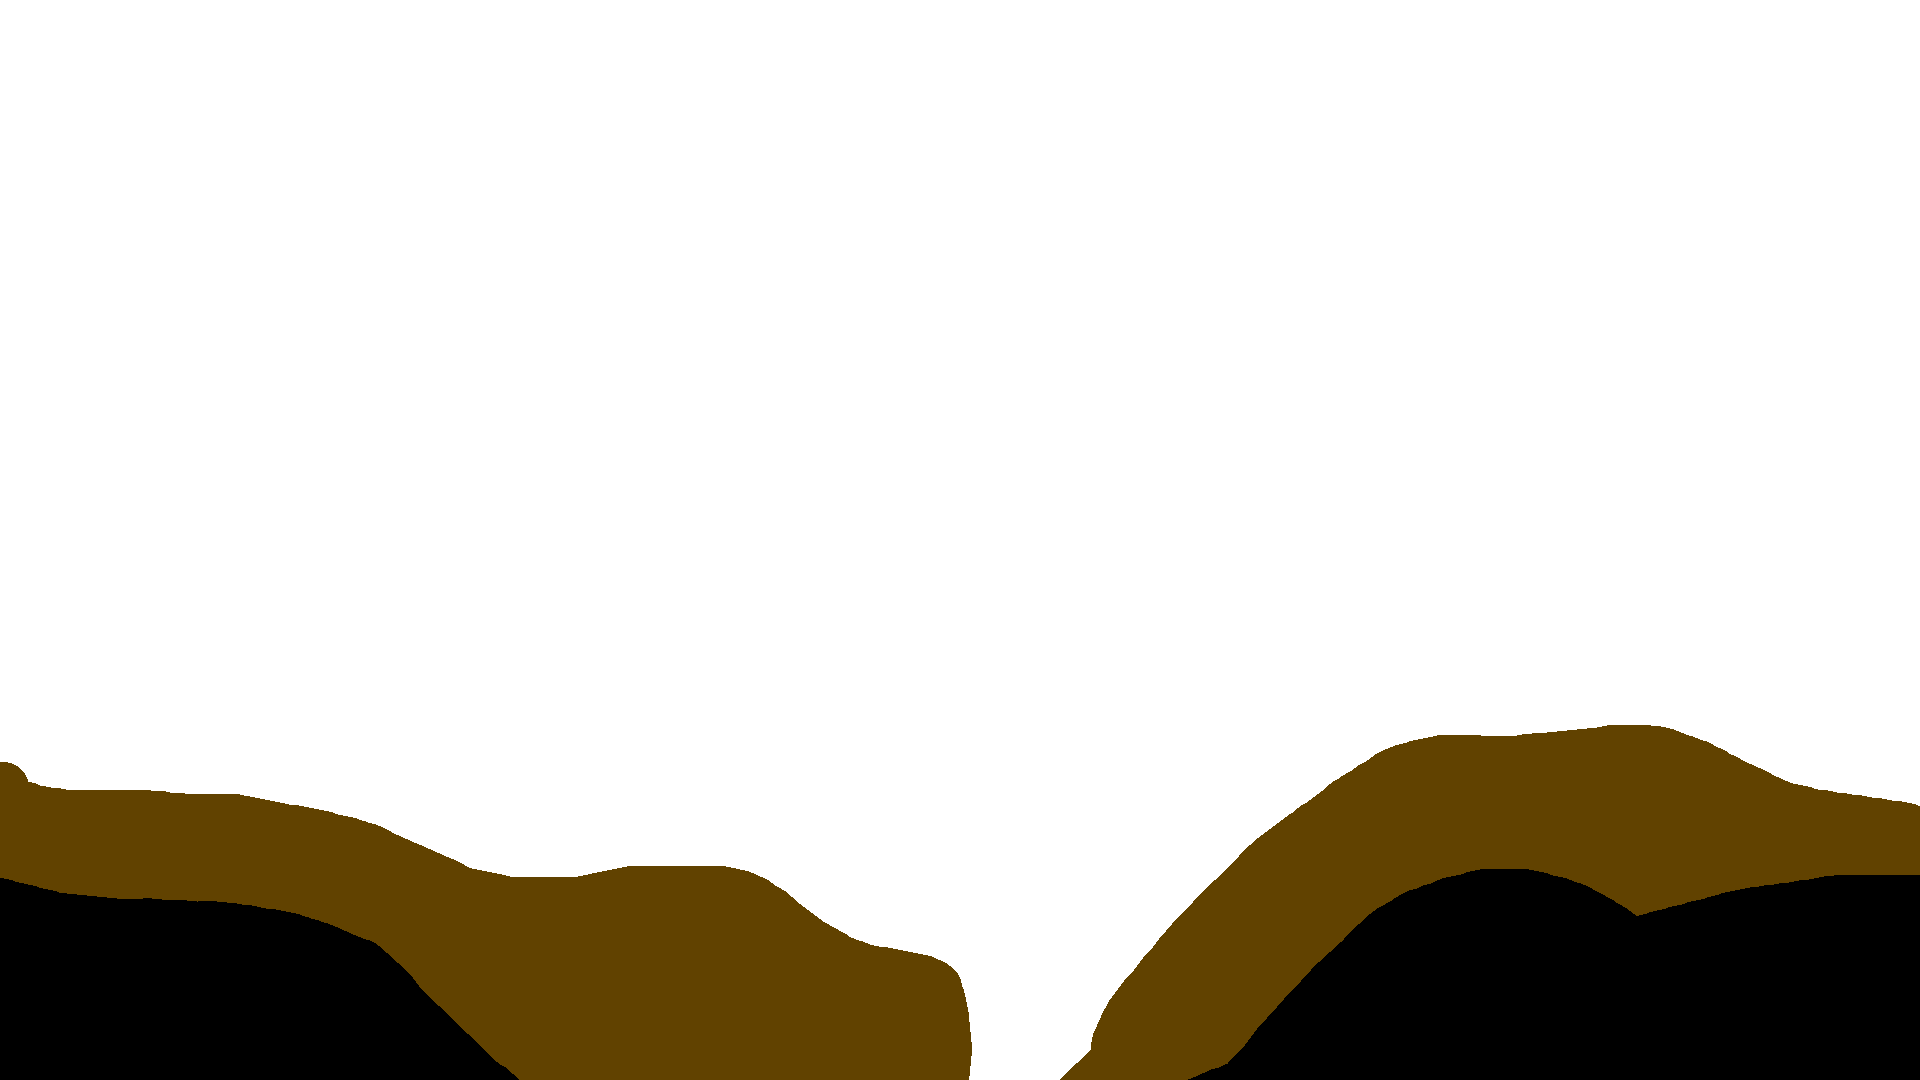
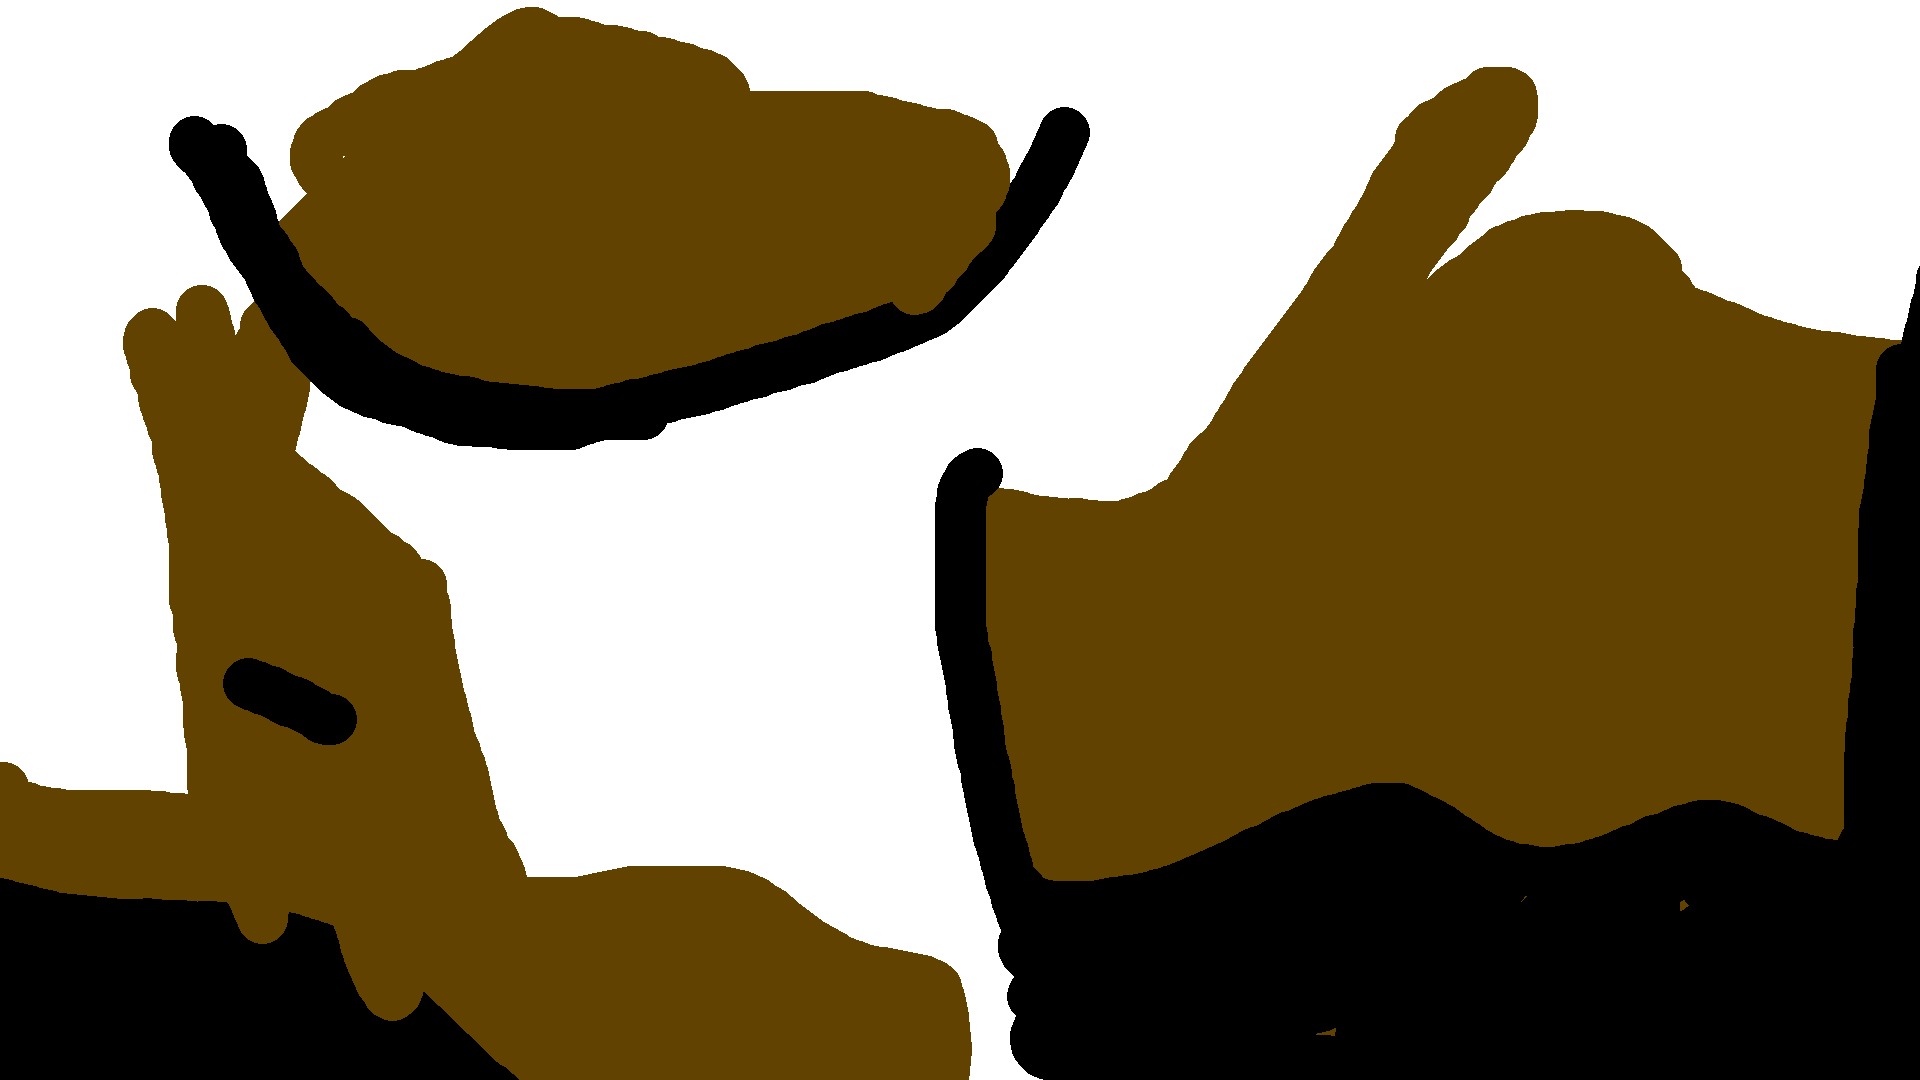
Sand

diff --git a/game/client/rendering/read_map.py b/game/client/rendering/read_map.py
@@ -2,12 +2,14 @@ import pygame
 import math
 
 class Read_map:
-    def __init__(self, filename, screen):
+    def __init__(self, filename, screen,size):
         self.width = screen.get_width()
         self.height = screen.get_height()
-        self.cell_size = 4
+        self.cell_size = size
         self.cells_w = self.width // self.cell_size
         self.cells_h = self.height // self.cell_size
+
+        self.density = 2  # 1 = pleine résolution, 2 = 1 pixel sur 2, etc.
 
         self.map = pygame.image.load(filename).convert()
         self.map = pygame.transform.scale(self.map, (self.width, self.height))
@@ -16,6 +18,17 @@ class Read_map:
 
         # grille binaire + couleurs
         self.grid = [[None for _ in range(self.cells_w)] for _ in range(self.cells_h)]
+        
+        # sets plutôt que listes = O(1) lookup, remove, add
+        self.cell_to_update = set()
+        self.circle_patterns = {}
+
+        # pré-calcul des rects pour chaque cellule
+        self.rect_grid = [
+            [pygame.Rect(x * self.cell_size, y * self.cell_size, self.cell_size, self.cell_size)
+             for x in range(self.cells_w)]
+            for y in range(self.cells_h)
+        ]
 
         self.read_map()
         self.create_map()
@@ -31,7 +44,7 @@ class Read_map:
             for cx in range(self.cells_w):
                 color = self.get_color(cx * self.cell_size, cy * self.cell_size)
                 if color != (255, 255, 255):
-                    self.grid[cy][cx] = color  # stockage direct dans la grille
+                    self.grid[cy][cx] = color
 
     def create_map(self):
         """Dessine toute la carte une fois au démarrage"""
@@ -39,31 +52,126 @@ class Read_map:
             for cx in range(self.cells_w):
                 color = self.grid[cy][cx]
                 if color:
-                    rect = pygame.Rect(cx * self.cell_size, cy * self.cell_size,
-                                       self.cell_size, self.cell_size)
-                    pygame.draw.rect(self.canva, color, rect)
+                    pygame.draw.rect(self.canva, color, self.rect_grid[cy][cx])
 
     def draw_map(self):
         """Dessine la map sur l'écran"""
+        self.move_cells()
         self.screen.blit(self.canva, (0, 0))
+
+    def get_circle_pattern(self, r_cells):
+        """Retourne une liste d'offsets pour un rayon donné, pré-calculée"""
+        if r_cells not in self.circle_patterns:
+            pattern = []
+            for dy in range(-r_cells, r_cells + 1):
+                for dx in range(-r_cells, r_cells + 1):
+                    if dx*dx + dy*dy <= r_cells*r_cells:
+                        pattern.append((dx, dy))
+            self.circle_patterns[r_cells] = pattern
+        return self.circle_patterns[r_cells]
 
     def destroy_rect(self, x, y, r_cells):
         """Détruit un cercle de rayon 'rayon' autour de (x, y)"""
         cx = x // self.cell_size
         cy = y // self.cell_size
 
-        for dy in range(-r_cells, r_cells + 1):
-            for dx in range(-r_cells, r_cells + 1):
-                if dx**2 + dy**2 <= r_cells**2:
-                    nx = cx + dx
-                    ny = cy + dy
-                    if 0 <= nx < self.cells_w and 0 <= ny < self.cells_h:
-                        if self.grid[ny][nx] is not None and self.grid[ny][nx] != (0, 0, 0):
-                            # suppression dans la grille
-                            self.grid[ny][nx] = None
-                            # suppression graphique
-                            rect = pygame.Rect(nx * self.cell_size,
-                                               ny * self.cell_size,
-                                               self.cell_size,
-                                               self.cell_size)
-                            self.canva.fill((255, 255, 255,0), rect)
+        for dx, dy in self.get_circle_pattern(r_cells):
+            nx = cx + dx
+            ny = cy + dy
+            if 0 <= nx < self.cells_w and 0 <= ny < self.cells_h:
+                if self.grid[ny][nx] is not None and self.grid[ny][nx] != (0, 0, 0):  # noir indestructible
+                    # suppression dans la grille
+                    self.grid[ny][nx] = None
+                    # suppression graphique
+                    self.canva.fill((255, 255, 255, 0), self.rect_grid[ny][nx])
+
+                    # ajout au set si la cellule au-dessus existe
+                    if ny > 0 :
+                        if self.grid[ny - 1][nx] is not None:
+                            self.cell_to_update.add((nx, ny - 1))
+                        else : 
+                            nx = nx + (1 if nx >= 0 else -1)
+                            if nx < self.cells_h and nx > 0 and self.grid[ny][nx ] is not None:
+                                self.cell_to_update.add((nx , ny))
+
+                    elif ny < 0 :
+                        if self.grid[ny + 1][nx] is not None:
+                            self.cell_to_update.add((nx, ny + 1))
+                        else : 
+                            nx = nx + (1 if nx >= 0 else -1)
+                            if nx < self.cells_h and nx > 0 and self.grid[ny][nx ] is not None:
+                                self.cell_to_update.add((nx , ny))
+
+                    elif ny == 0 :
+                        if nx > 0 and self.grid[ny][nx - 1] is not None:
+                            self.cell_to_update.add((nx - 1, ny))
+
+                        elif nx < 0 and self.grid[ny][nx + 1] is not None:
+                            self.cell_to_update.add((nx + 1, ny))
+
+    def move_cells(self):
+        """Met à jour les cellules qui doivent tomber"""
+        to_add = set()
+        to_remove = set()
+
+        for (x, y) in self.cell_to_update:
+            if self.grid[y][x] is not None and self.grid[y][x] != (0, 0, 0):  # si la cellule existe et n'est pas noire
+                if y + 1 < self.cells_h and self.grid[y + 1][x] is None:
+                    self.update_cell(x, y, y+1,x)
+                    # on ajoute les voisins à surveiller
+                    if y - 1 >= 0:
+                        to_add.add((x, y - 1))
+                    if y + 1 < self.cells_h:
+                        to_add.add((x, y + 1))
+
+                elif y + 1 < self.cells_h and x - 1 >= 0 and self.grid[y + 1][x - 1] is None:
+                    self.update_cell(x,y,y+1,x-1)
+                    # on ajoute les voisins à surveiller
+                    if y - 1 >= 0:
+                        to_add.add((x, y - 1))
+
+                    if y + 1 < self.cells_h and x + 1 < self.cells_w:
+                        to_add.add((x + 1, y + 1))
+                    
+                    to_add.add((x - 1, y + 1))
+
+                elif y + 1 < self.cells_h and x + 1 < self.cells_w and self.grid[y + 1][x + 1] is None:
+                    self.update_cell(x,y,y+1,x+1)
+                    # on ajoute les voisins à surveiller
+                    if y - 1 >= 0:
+                        to_add.add((x, y - 1))
+
+                    if y + 1 < self.cells_h and x - 1 >= 0:
+                        to_add.add((x - 1, y + 1))
+                    
+                    to_add.add((x + 1, y + 1))
+                
+                else:
+                    if y - 1 >= 0:
+                        to_add.add((x, y - 1))
+
+                    if y + 1 < self.cells_h and x + 1 < self.cells_w:
+                        to_add.add((x + 1, y + 1))
+                    # bloquée, à supprimer
+                
+                to_remove.add((x, y))
+
+            #elif y - self.density < self.cells_h and x+1 < self.cells_w and self.grid[y - self.density][x+1] is not None and self.grid[y - self.density][x] is None:
+                #to_add.add((x+1, y-self.density))
+            else:
+                # cellule vide => inutile de la garder
+                to_remove.add((x, y))
+
+        # maj des sets en une seule opération (rapide)
+        self.cell_to_update -= to_remove
+        self.cell_to_update |= to_add
+
+    def update_cell(self, x, y,newy,newx):
+        """Fait tomber une cellule"""
+        # échange dans la grille
+        self.grid[newy][newx], self.grid[y][x] = self.grid[y][x], None
+
+        # effacer ancienne position
+        self.canva.fill((255, 255, 255, 0), self.rect_grid[y][x])
+        # dessiner à la nouvelle position
+        pygame.draw.rect(self.canva, self.grid[newy][newx], self.rect_grid[newy][newx])

diff --git a/game/client/rendering/rendering_main.py b/game/client/rendering/rendering_main.py
@@ -18,6 +18,9 @@ screenSize = (screen.get_width(),screen.get_height())
 #ecriture
 font = pygame.font.SysFont(None, 48)
 
+bg = pygame.image.load("../../assets/Cards.com.png").convert()
+fps = 1000
+fpsClock = pygame.time.Clock()
 
 def run():
     running = True
@@ -29,19 +32,22 @@ def run():
 
             if event.type == pygame.MOUSEBUTTONDOWN:
                 x, y = event.pos
-                map.destroy_rect(x, y, 10)
+                map.destroy_rect(x, y, 100)
 
-        screen.fill((255, 255, 255))
+        screen.blit(bg, (0, 0))
+        #screen.fill((255, 255, 255))
 
         map.draw_map()
 
         # Update the display
         pygame.display.flip()
 
+        #fpsClock.tick(fps) / 1000
+
         #self.dt = self.fpsClock.tick(self.fps) / 1000
 
     pygame.quit()
 
-map = Read_map("../../assets/map_1.png",screen)
+map = Read_map("../../assets/map_1.png",screen,1)
 
 run()
